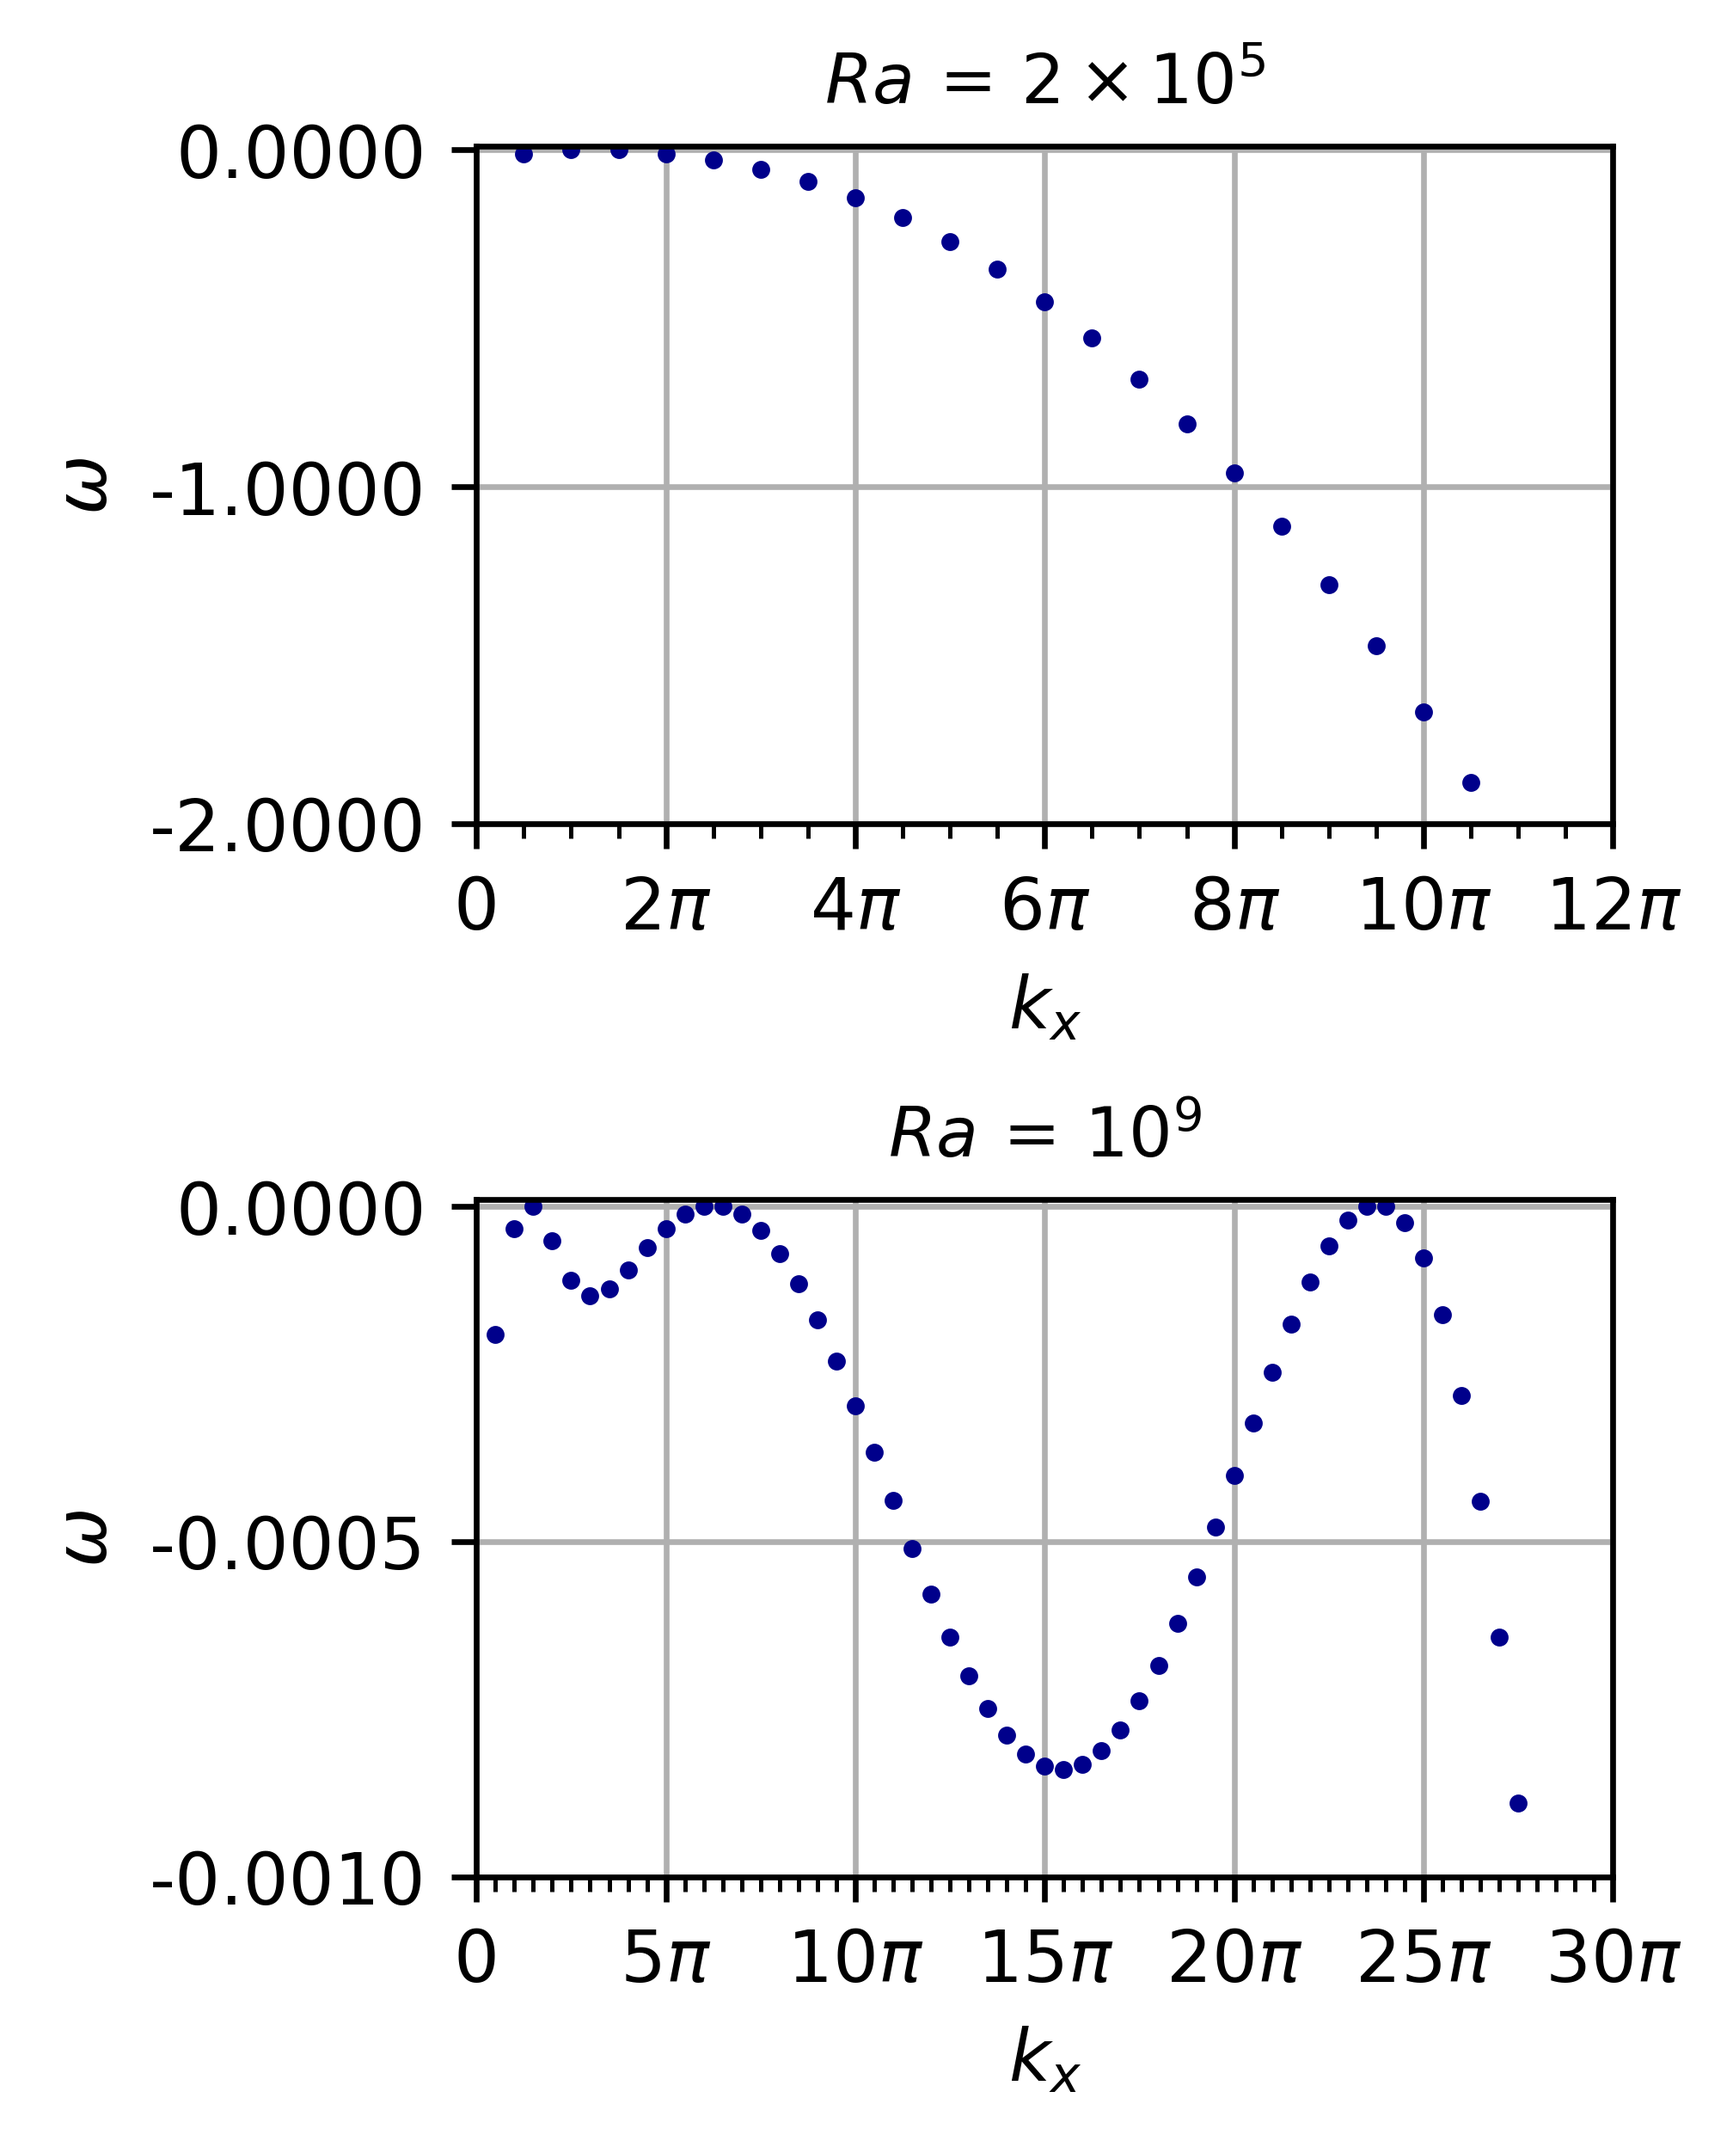
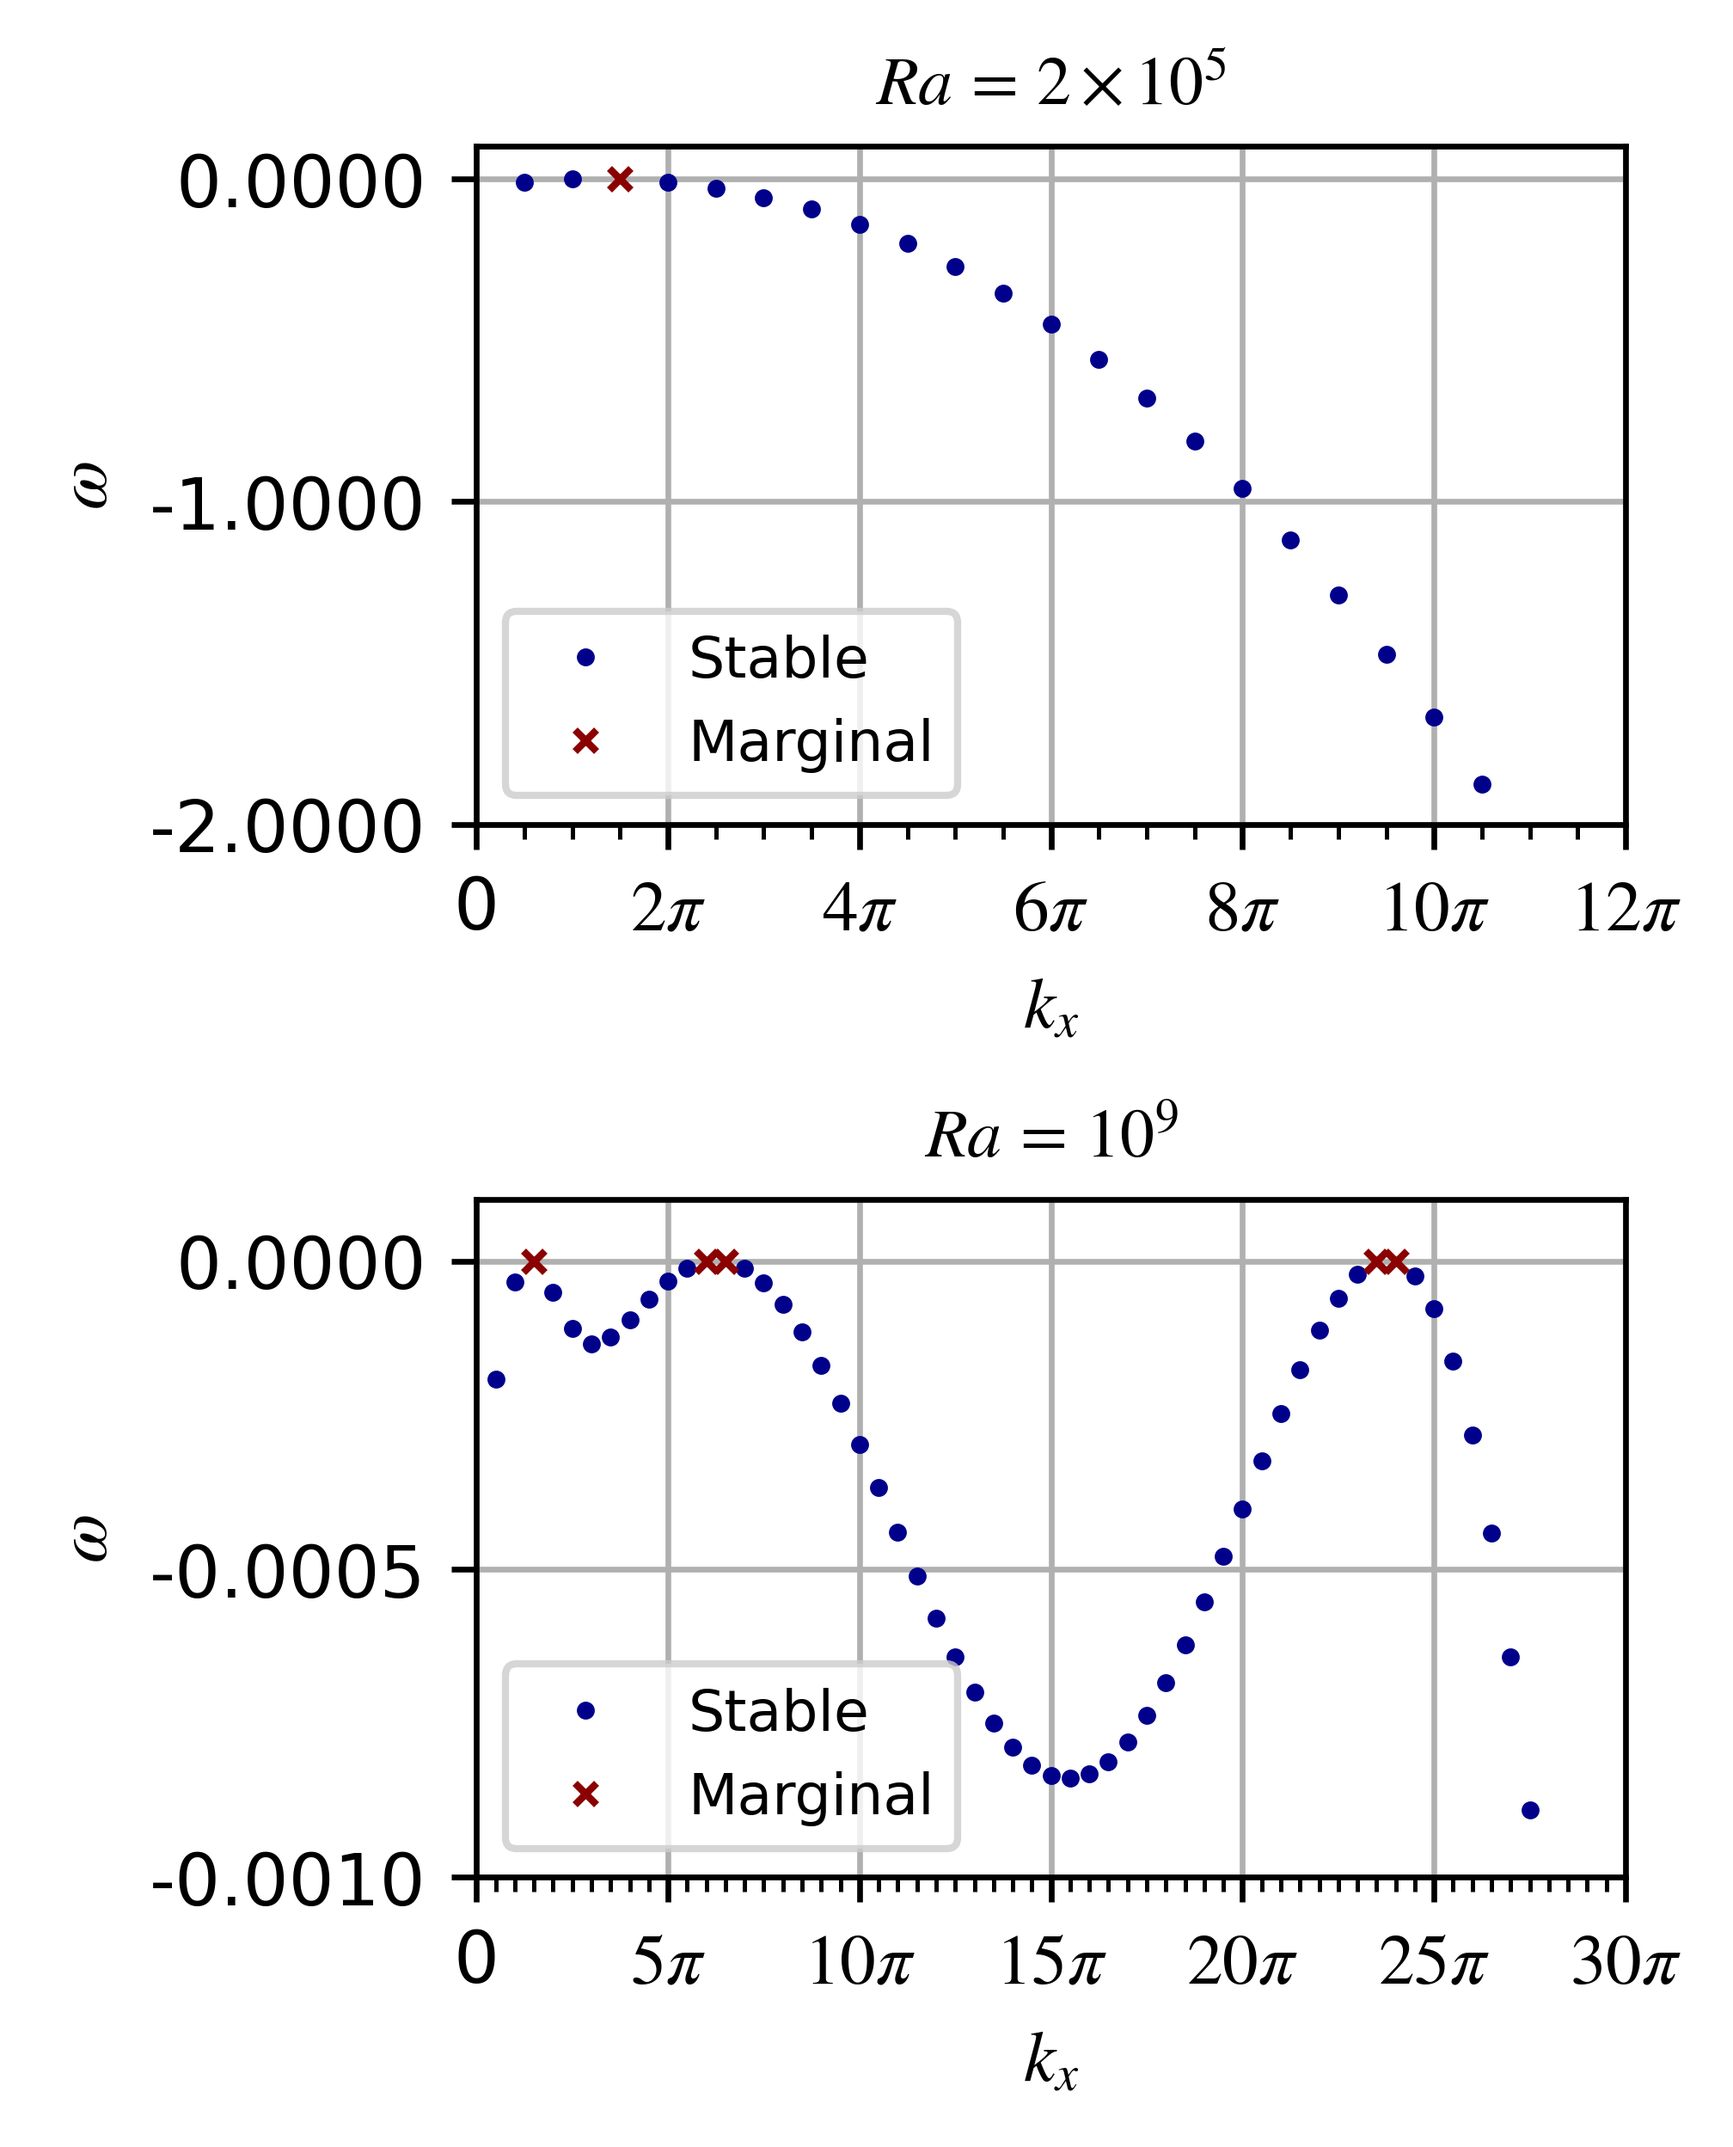
pfe figs update1

diff --git a/plot_spectra_2ra.py b/plot_spectra_2ra.py
@@ -32,16 +32,27 @@ def format_func(value, tick_number):
 def plot_EVs(evs_mat, labels):
     fig, axs = plt.subplots(2, sharex=False)
     # fig.suptitle(r'$Ra 2e9$')
-    ylims = [(-2, 0.01), (-0.001, 0.00001)]
+    ylims = [(-2, 0.1), (-0.001, 0.0001)]
     xlims = [(0, 12*np.pi), (0, 30*np.pi)]
     maj_loc = [2*np.pi, 5*np.pi]
     for i, evs in enumerate(evs_mat):
         ax = axs[i]
         [kxs, EVs] = list(zip(*evs))
-        ax.plot(kxs, EVs, '.', linestyle='None')
+        kx_m, evs_m = [], []
+        kx_s, evs_s = [], []
+        for j in range(len(kxs)):
+            if (EVs[j] > -1e-9):
+                kx_m.append(kxs[j])
+                evs_m.append(EVs[j])
+            else:
+                kx_s.append(kxs[j])
+                evs_s.append(EVs[j])
+        ax.plot(kx_s, evs_s, '.', label='Stable', linestyle='None')
+        ax.plot(kx_m, evs_m, 'x', label='Marginal', markersize=3, linestyle='None')
         ax.set_title(labels[i])
         ax.set_xlim(xlims[i])
         ax.set_ylim(ylims[i])
+        ax.legend(loc='lower left')
         ax.xaxis.set_major_locator(tck.MultipleLocator(maj_loc[i]))
         ax.xaxis.set_minor_locator(tck.MultipleLocator(np.pi / 2))
         ax.xaxis.set_major_formatter(plt.FuncFormatter(format_func))
@@ -55,6 +66,7 @@ def plot_EVs(evs_mat, labels):
     # plt.legend(loc='lower right')
     # fig.text(0.00, 0.5, r'$\omega$', ha='center', va='center', rotation='vertical', fontsize=10)
     plt.savefig(path + '/pubfigs/EV_spectra_2ra', bbox_inches='tight')
+    plt.savefig(path + '/publication_materials/EV_spectra_2ra', bbox_inches='tight')
 
 # fig = plt.figure()
 path = os.path.dirname(os.path.abspath(__file__))

diff --git a/plot_flux.py b/plot_flux.py
@@ -71,10 +71,10 @@ def plot_flux(Rayleigh, ax, path, iteration):
         ax.plot(z, advection4, label = 'Advection ($k_x  = $' + pi_mult4 + '$\pi$)')
         ax.plot(z, advection5, label = 'Advection ($k_x  = $' + pi_mult5 + '$\pi$)')
         ax.plot(z, flux, label = 'Total', color='black')
-        ax.set_xlim(-0.5, 0.5)
+        ax.set_xlim(-0.5, 0.0)
         ax.set_yticks([0.000, 0.001, 0.002, 0.003])
         # ax.set_ylim(-0.0002, 0.0039)
-        ax.legend(prop={'size': 8}, frameon=False)
+        ax.legend(prop={'size': 7.5}, frameon=False, loc='center right', bbox_to_anchor=(0.52, 0.25, 0.5, 0.5))
         ax.set_title(r'$Ra \, = \, 10^9$')
         # plt.title('Heat Flux')
         ax.set_xlabel(r'$z$')
@@ -95,8 +95,8 @@ def plot_flux(Rayleigh, ax, path, iteration):
         pi_mult = str(round(kx/np.pi, 1))
         ax.plot(z, advection, label = 'Advection ($k_x  = $' + pi_mult + '$\pi$)')
         ax.plot(z, flux, label = 'Total', color='black')
-        ax.set_xlim(-0.5, 0.5)
-        ax.legend(frameon=False)
+        ax.set_xlim(-0.5, 0.0)
+        ax.legend(frameon=False, loc='center right')
         ax.set_title(r'$Ra \, = \, 2 \times  10^5$')
         ax.set_xlabel(r'$z$')
         ax.set_ylabel('Flux')
@@ -131,5 +131,6 @@ plt.subplots_adjust(right=1.0)
 # fig.text(0.00, 0.5, 'Flux', ha='center', va='center', rotation='vertical', fontsize=10)
 # plt.ylabel('Flux')
 plt.savefig(root_path + '/pubfigs/flux_sup_n', bbox_inches='tight')
+plt.savefig(root_path + '/publication_materials/flux_sup_n', bbox_inches='tight')
 
 

diff --git a/publication_settings.py b/publication_settings.py
@@ -20,10 +20,12 @@ colors = [
 params = {#'backend': 'eps',
           'axes.prop_cycle' : matplotlib.cycler(color=colors),
           'axes.labelsize': 10,
-          'font.family':'CMU Serif',
+          'font.family':'serif',
           #'text.fontsize': 8,
           'font.size':8,
-          'font.serif': 'CMU Serif Roman',
+          'font.serif': 'stix',
+          'mathtext.fontset' : 'stix',
+        #   'text.usetex' : True,
           'legend.fontsize': 8,
           'legend.markerscale': 1,
           'xtick.labelsize': 10,
